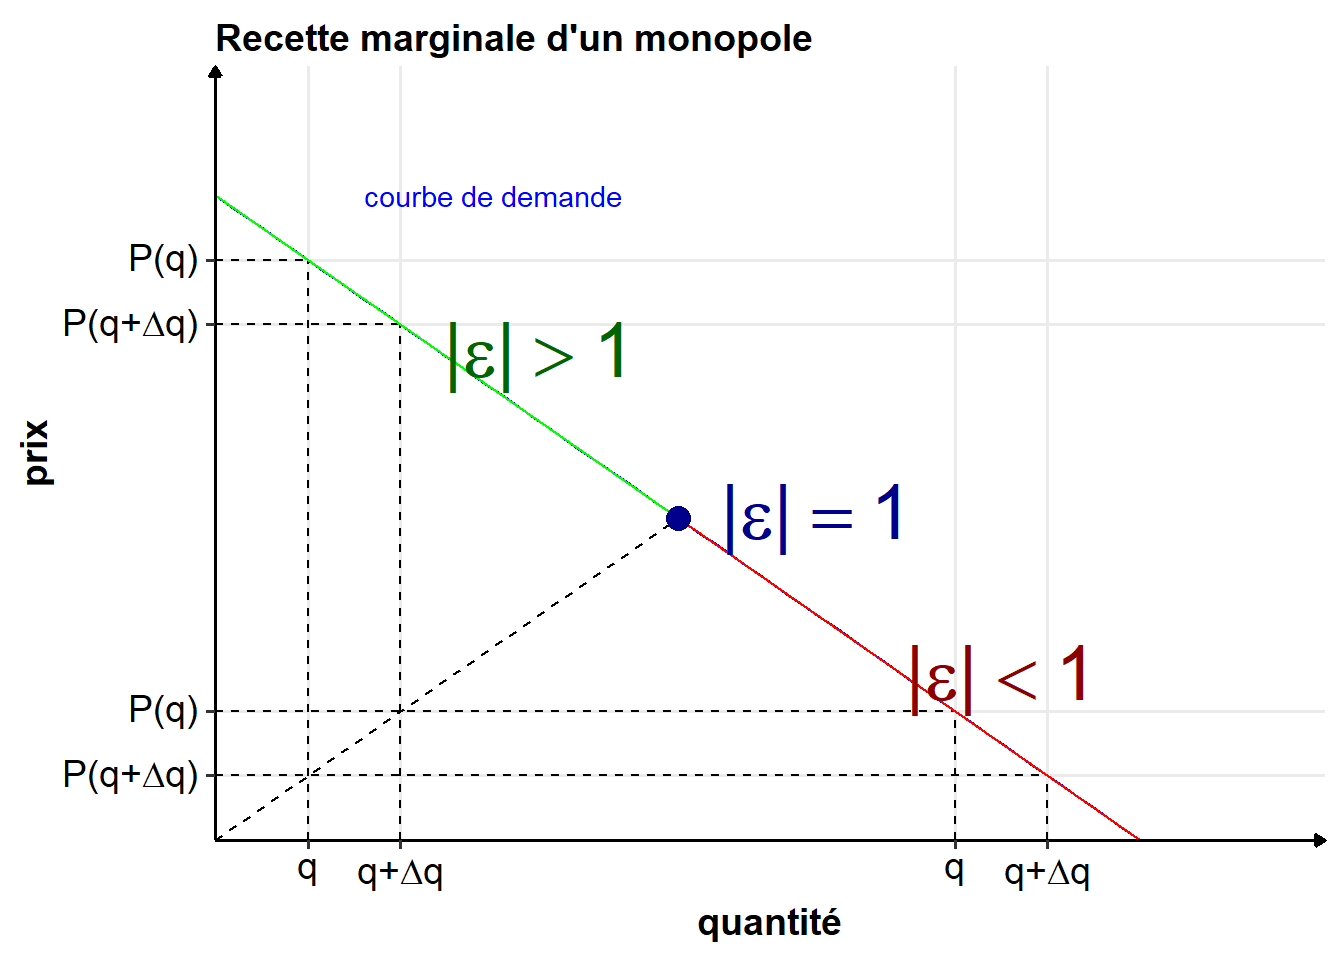
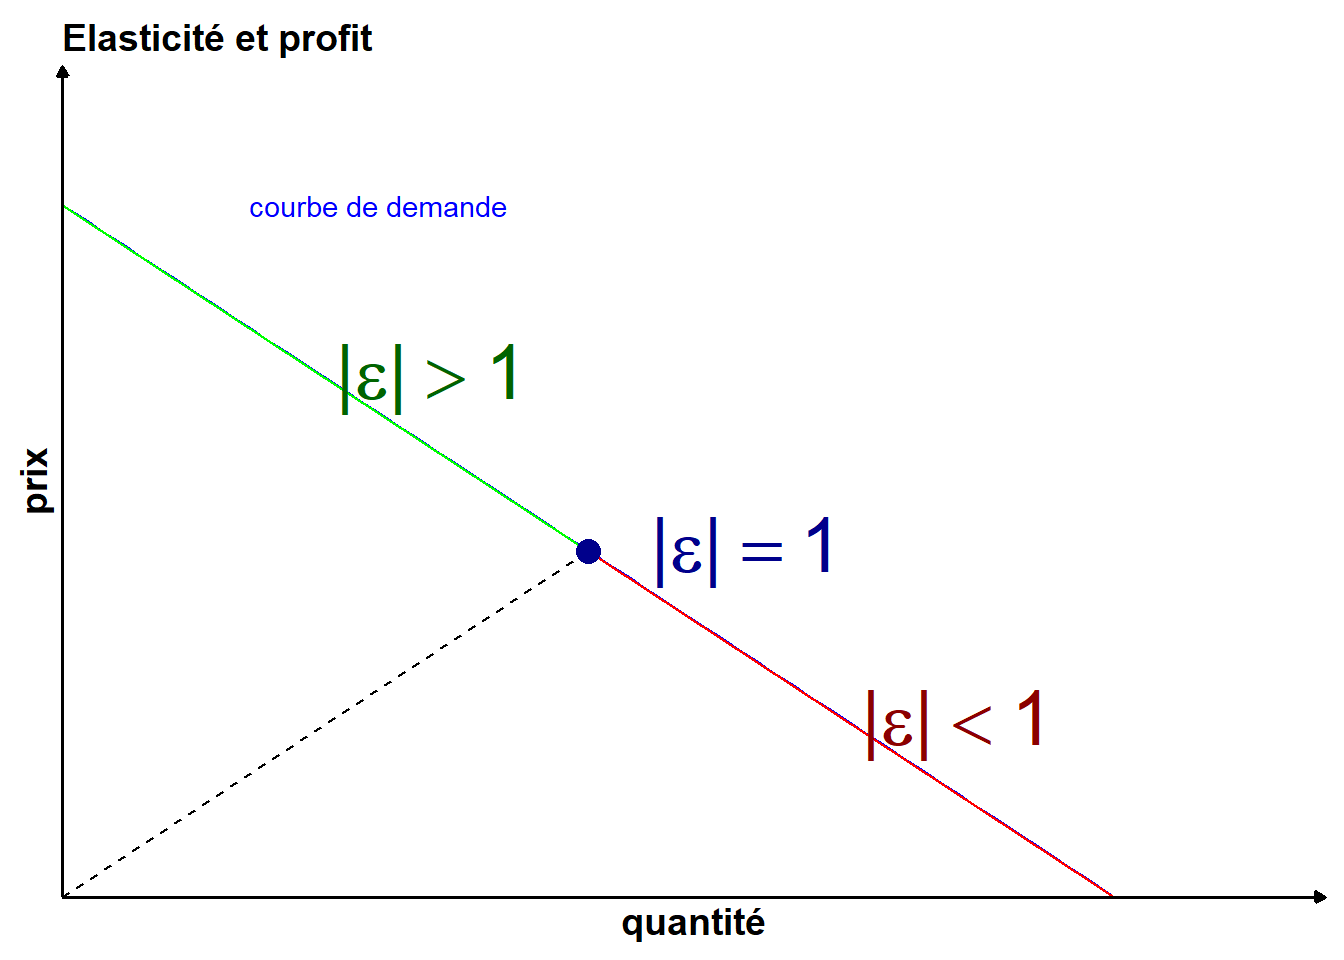
Adding graphs in the monopole section

diff --git a/3.2-propriétés-de-la-solution-de-la-maximisation-du-monopole.html b/3.2-propriétés-de-la-solution-de-la-maximisation-du-monopole.html
@@ -124,26 +124,26 @@ details > summary {
 <h2><span class="header-section-number">3.2</span> Propriétés de la solution de la maximisation du monopole</h2>
 <p>On avait dans l’équation <a href="2.2-recette-marginale-et-courbe-de-demande.html#eq:rm">(2.1)</a> :
 <span class="math display">\[
-R_m(q) = P(q)\left(1 - \frac{1}{|\varepsilon_{q/P_q}|}\right)\\
+R_m(q) = P(q)\left(1 - \frac{1}{|\varepsilon_{q/p}|}\right)\\
 \]</span>
 Comme à l’optimum, d’après l’équation <a href="3.1-maximisation-du-profit.html#eq:cpo">(3.1)</a>, on doit avoir <span class="math inline">\(R_m(q^*)=C_m(q^*)\)</span>, on a :
 <span class="math display" id="eq:rmcm">\[
-R_m(q^*) = P(q^*)\left(1 - \frac{1}{|\varepsilon_{q/P_q}(q^*)|}\right) = C_m(q^*) \tag{3.3}
+R_m(q^*) = P(q^*)\left(1 - \frac{1}{|\varepsilon_{q/p}(q^*)|}\right) = C_m(q^*) \tag{3.3}
 \]</span>
 On observe ici un lien avec la solution en CPP.
 En effet, en CPP, l’élasticité de la demande au prix est perçue comme infinie, on aura donc bien <span class="math inline">\(P(q^*) = C_m(q^*)\)</span>, la solution obtenue en CPP.
 Dès lors que l’élasticité de la demande au prix n’est plus infinie en revanche, on obtient :
 <span class="math display">\[
- P(q^*)=\frac{C_m(q^*)}{1 - \frac{1}{\left|\varepsilon_{q/P_q}(q^*)\right|}} &gt; C_m(q^*)
+ P(q^*)=\frac{C_m(q^*)}{1 - \frac{1}{\left|\varepsilon_{q/p}(q^*)\right|}} &gt; C_m(q^*)
 \]</span></p>
 <p><em>Question :</em> Dans quelle zone d’élasticité le monopole va-t-il opérer ?</p>
-<p>On voit que si <span class="math inline">\(\left|\varepsilon_{q/P_q}(q^*)\right|&lt;1\)</span>, c’est-à-dire que si la demande est inélastique, alors <span class="math inline">\(1 - \frac{1}{\left|\varepsilon_{q/P_q}(q^*)\right|} &lt;0\)</span>, ce qui implique que la recette marginale <span class="math inline">\(R_m\)</span> est négative, et donc impossible à égaliser avec le coût marginal <span class="math inline">\(C_m\)</span>.<br />
+<p>On voit que si <span class="math inline">\(\left|\varepsilon_{q/p}(q^*)\right|&lt;1\)</span>, c’est-à-dire que si la demande est inélastique, alors <span class="math inline">\(1 - \frac{1}{\left|\varepsilon_{q/p}(q^*)\right|} &lt;0\)</span>, ce qui implique que la recette marginale <span class="math inline">\(R_m\)</span> est négative, et donc impossible à égaliser avec le coût marginal <span class="math inline">\(C_m\)</span>.<br />
 On peut voir la réponse d’une autre façon.
 Si la pente est inélastique, alors le revenu <span class="math inline">\(R\)</span> augmente quand la quantité <span class="math inline">\(q\)</span> baisse.
 Le coût total <span class="math inline">\(C\)</span> baisse aussi quand la quantité baisse.
 Le monopole aurait donc tout intérêt à réduire sa production lorsque la demande est inélastique.</p>
 <div class="corollary">
-<p><span id="cor:unlabeled-div-4" class="corollary"><strong>Corollary 3.1  </strong></span>Le monopole opère donc nécessairement dans la zone élastique de la courbe de demande : <span class="math inline">\(\left|\varepsilon_{q/P_q}(q^*)\right|&gt;1\)</span> .</p>
+<p><span id="cor:unlabeled-div-4" class="corollary"><strong>Corollary 3.1  </strong></span>Le monopole opère donc nécessairement dans la zone élastique de la courbe de demande : <span class="math inline">\(\left|\varepsilon_{q/p}(q^*)\right|&gt;1\)</span> .</p>
 </div>
 </div>
 <p style="text-align: center;">

diff --git a/2.2-recette-marginale-et-courbe-de-demande.html b/2.2-recette-marginale-et-courbe-de-demande.html
@@ -122,7 +122,7 @@ details > summary {
 <div class="col-sm-12">
 <div id="recette-marginale-et-courbe-de-demande" class="section level2" number="2.2">
 <h2><span class="header-section-number">2.2</span> Recette marginale et courbe de demande</h2>
-<p>Comme la courbe de demande est décroissante (l’élasticité prix de la demande est négative <span class="math inline">\(\varepsilon_{q/P_q} &lt;0\)</span>), <span class="math inline">\(P(q)\)</span> et <span class="math inline">\(q\)</span> ont une relation inverse.
+<p>Comme la courbe de demande est décroissante (l’élasticité prix de la demande est négative <span class="math inline">\(\varepsilon_{q/p} &lt;0\)</span>), <span class="math inline">\(P(q)\)</span> et <span class="math inline">\(q\)</span> ont une relation inverse.
 Autrement dit, si <span class="math inline">\(q\)</span> augmente, alors <span class="math inline">\(p\)</span> baisse, et réciproquement.</p>
 <p>Cela implique que la recette totale va augmenter ou baisser suivant les propriétés de la courbe de demande.</p>
 <p><img src="Monopole_files/figure-html/recette_marginale-1.png" width="672" /></p>
@@ -133,17 +133,17 @@ R_m(q)&amp; = \frac{dR(q)}{dq} \\
 &amp; = \frac{d (qP(q))}{dq} \\
 &amp; = P(q) + q\frac{d P(q)}{dq} \\
 &amp; = P(q)\left(1 + \frac{q}{P(q)}\frac{d P(q)}{dq} \right)\\
-&amp; = P(q)\left(1 + \frac{1}{\varepsilon_{q/P_q}}\right)
+&amp; = P(q)\left(1 + \frac{1}{\varepsilon_{q/p}}\right)
 \end{align*}\]</span></p>
-<p>Rappel : <span class="math inline">\(\frac{P(q)}{q}\frac{dq}{dP(q)} = \varepsilon_{q/P_q} &lt;0\)</span></p>
+<p><em>Rappel :</em> <span class="math inline">\(\frac{P(q)}{q}\frac{dq}{dP(q)} = \varepsilon_{q/p} &lt;0\)</span></p>
 <p><span class="math display" id="eq:rm">\[\begin{equation}
-R_m(q) = P(q)\left(1 - \frac{1}{|\varepsilon_{q/P_q}|}\right)\\
+R_m(q) = P(q)\left(1 - \frac{1}{|\varepsilon_{q/p}|}\right)\\
 \tag{2.1}
 \end{equation}\]</span></p>
 <p>De l’équation <a href="2.2-recette-marginale-et-courbe-de-demande.html#eq:rm">(2.1)</a>, on voit clairement que le signe de <span class="math inline">\(R_m\)</span> dépend de l’élasticité prix de la demande.</p>
 <ol style="list-style-type: decimal">
-<li>Si la demande est élastique (<span class="math inline">\(|\varepsilon_{q/P_q}|&gt;1\)</span>), alors <span class="math inline">\(R_m(q)&gt;0\)</span>, donc si la quantité augmente, le revenu augmente.</li>
-<li>Si la demande est inélastique (<span class="math inline">\(|\varepsilon_{q/P_q}|&lt;1\)</span>), alors <span class="math inline">\(R_m(q)&lt;0\)</span>, donc si la quantité augmente, le revenu diminue.</li>
+<li>Si la demande est élastique (<span class="math inline">\(|\varepsilon_{q/p}|&gt;1\)</span>), alors <span class="math inline">\(R_m(q)&gt;0\)</span>, donc si la quantité augmente, le revenu augmente.</li>
+<li>Si la demande est inélastique (<span class="math inline">\(|\varepsilon_{q/p}|&lt;1\)</span>), alors <span class="math inline">\(R_m(q)&lt;0\)</span>, donc si la quantité augmente, le revenu diminue.</li>
 </ol>
 <p><img src="Monopole_files/figure-html/elasticite-1.png" width="672" /></p>
 </div>

diff --git a/2.3-représentation-graphique.html b/2.3-représentation-graphique.html
@@ -130,13 +130,18 @@ et <span class="math inline">\(\frac{d P(q)}{dq}\)</span> est négative (la dema
 <div id="exemple-avec-une-courbe-de-demande-linéaire" class="section level3" number="2.3.1">
 <h3><span class="header-section-number">2.3.1</span> Exemple avec une courbe de demande linéaire</h3>
 <p>Prenons maintenant l’exemple d’une courbe de demande linéaire quelconque <span class="math inline">\(P(q) = a-bq\)</span> (<span class="math inline">\(a\)</span> et <span class="math inline">\(b\)</span> sont des paramètres quelconques).
-On obtient alors <span class="math inline">\(R_m(q) = a-2bq\)</span>.<br />
+On obtient alors <span class="math inline">\(R_m(q) = a-2bq\)</span> (et <span class="math inline">\(R(q) = aq-bq^2\)</span>).<br />
 Dans le cas linéaire, le revenu marginal est une droite de pente deux fois plus forte que la demande, et ayant la même ordonnée à l’origine.
 La recette marginale divise en deux tout segment horizontal entre l’axe des ordonnées et la courbe de demande.</p>
-<p>GRAPH</p>
-<p>La recette marginale est atteinte lorsque la valeur absolue de l’élasticité prix de la demande est égale à 1 (<span class="math inline">\(|\varepsilon_{q/P_q}|=1\)</span>).</p>
-<p>GRAPH</p>
-<p>GRAPH mesure de la recette totale.</p>
+<p><img src="Monopole_files/figure-html/recettemarginale-1.png" width="672" /></p>
+<p>La recette maximale est atteinte lorsque la valeur absolue de l’élasticité prix de la demande est égale à 1 (<span class="math inline">\(|\varepsilon_{q/p}|=1\)</span>).</p>
+<p><img src="Monopole_files/figure-html/profit-1.png" width="672" /></p>
+<p>On peut calculer le profit de deux manières :</p>
+<ol style="list-style-type: decimal">
+<li>En utilisant l’aire du trapèze vert (intégrale de la recette marginale entre 0 et la quantité produite <span class="math inline">\(p^*\)</span>) ;</li>
+<li>En utilisant l’aire du rectangle rouge (<span class="math inline">\(\pi=p^* q^*\)</span>).</li>
+</ol>
+<p>Le résultat provient de l’égalité d’aire entre le triangle vert et le triangle rouge.</p>
 </div>
 </div>
 <!-- </div> -->

diff --git a/3.3-indice-de-pouvoir-du-monopole.html b/3.3-indice-de-pouvoir-du-monopole.html
@@ -126,25 +126,25 @@ details > summary {
 Cela permet de construire un indice du <em>pouvoir de monopole</em> à partir de l’élasticité du prix à la demande à l’équilibre.
 On a d’après l’équation <a href="3.2-propriétés-de-la-solution-de-la-maximisation-du-monopole.html#eq:rmcm">(3.3)</a> :
 <span class="math display">\[
-R_m(q^*) = P(q^*)\left(1 - \frac{1}{|\varepsilon_{q/P_q}(q^*)|}\right) = C_m(q^*) 
+R_m(q^*) = P(q^*)\left(1 - \frac{1}{|\varepsilon_{q/p}(q^*)|}\right) = C_m(q^*) 
 \]</span>
 On en déduit :</p>
 <p><span class="math display">\[\begin{array}{rl}
-&amp; C_m(q^*) = P(q^*) - \frac{P(q^*)}{|\varepsilon_{q/P_q}(q^*)|}\\
-\Leftrightarrow &amp; P(q^*) - C_m(q^*) = \frac{P(q^*)}{|\varepsilon_{q/P_q}(q^*)|}
+&amp; C_m(q^*) = P(q^*) - \frac{P(q^*)}{|\varepsilon_{q/p}(q^*)|}\\
+\Leftrightarrow &amp; P(q^*) - C_m(q^*) = \frac{P(q^*)}{|\varepsilon_{q/p}(q^*)|}
 \end{array}
 \]</span></p>
 <div class="definition">
 <p><span id="def:Lerner" class="definition"><strong>Definition 3.1  (Indice de Lerner) </strong></span>On définit l’indice de Lerner par :
 <span class="math display" id="eq:Lerner">\[
-\frac{1}{|\varepsilon_{q/P_q}(q^*)|} = \frac{P(q^*) - C_m(q^*)}{P(q^*)} \tag{3.4}
+\frac{1}{|\varepsilon_{q/p}(q^*)|} = \frac{P(q^*) - C_m(q^*)}{P(q^*)} \tag{3.4}
 \]</span>
 La partie gauche de l’équation est l’indice de Lerner, et la partie droite indique la capacité du monopole à vendre au-dessus de son coût marginal, en pourcentage du prix total.</p>
 </div>
 <p>On peut construire à partir de l’équation précédente le <em>markup pricing</em>.</p>
 <div class="definition">
 <p><span id="def:unlabeled-div-5" class="definition"><strong>Definition 3.2  (Markup pricing) </strong></span><span class="math display">\[
-P(q^*) =\frac{|\varepsilon_{q/P_q}(q^*)|}{|\varepsilon_{q/P_q}(q^*)|-1} C_m(q^*)
+P(q^*) =\frac{|\varepsilon_{q/p}(q^*)|}{|\varepsilon_{q/p}(q^*)|-1} C_m(q^*)
 \]</span></p>
 </div>
 </div>
